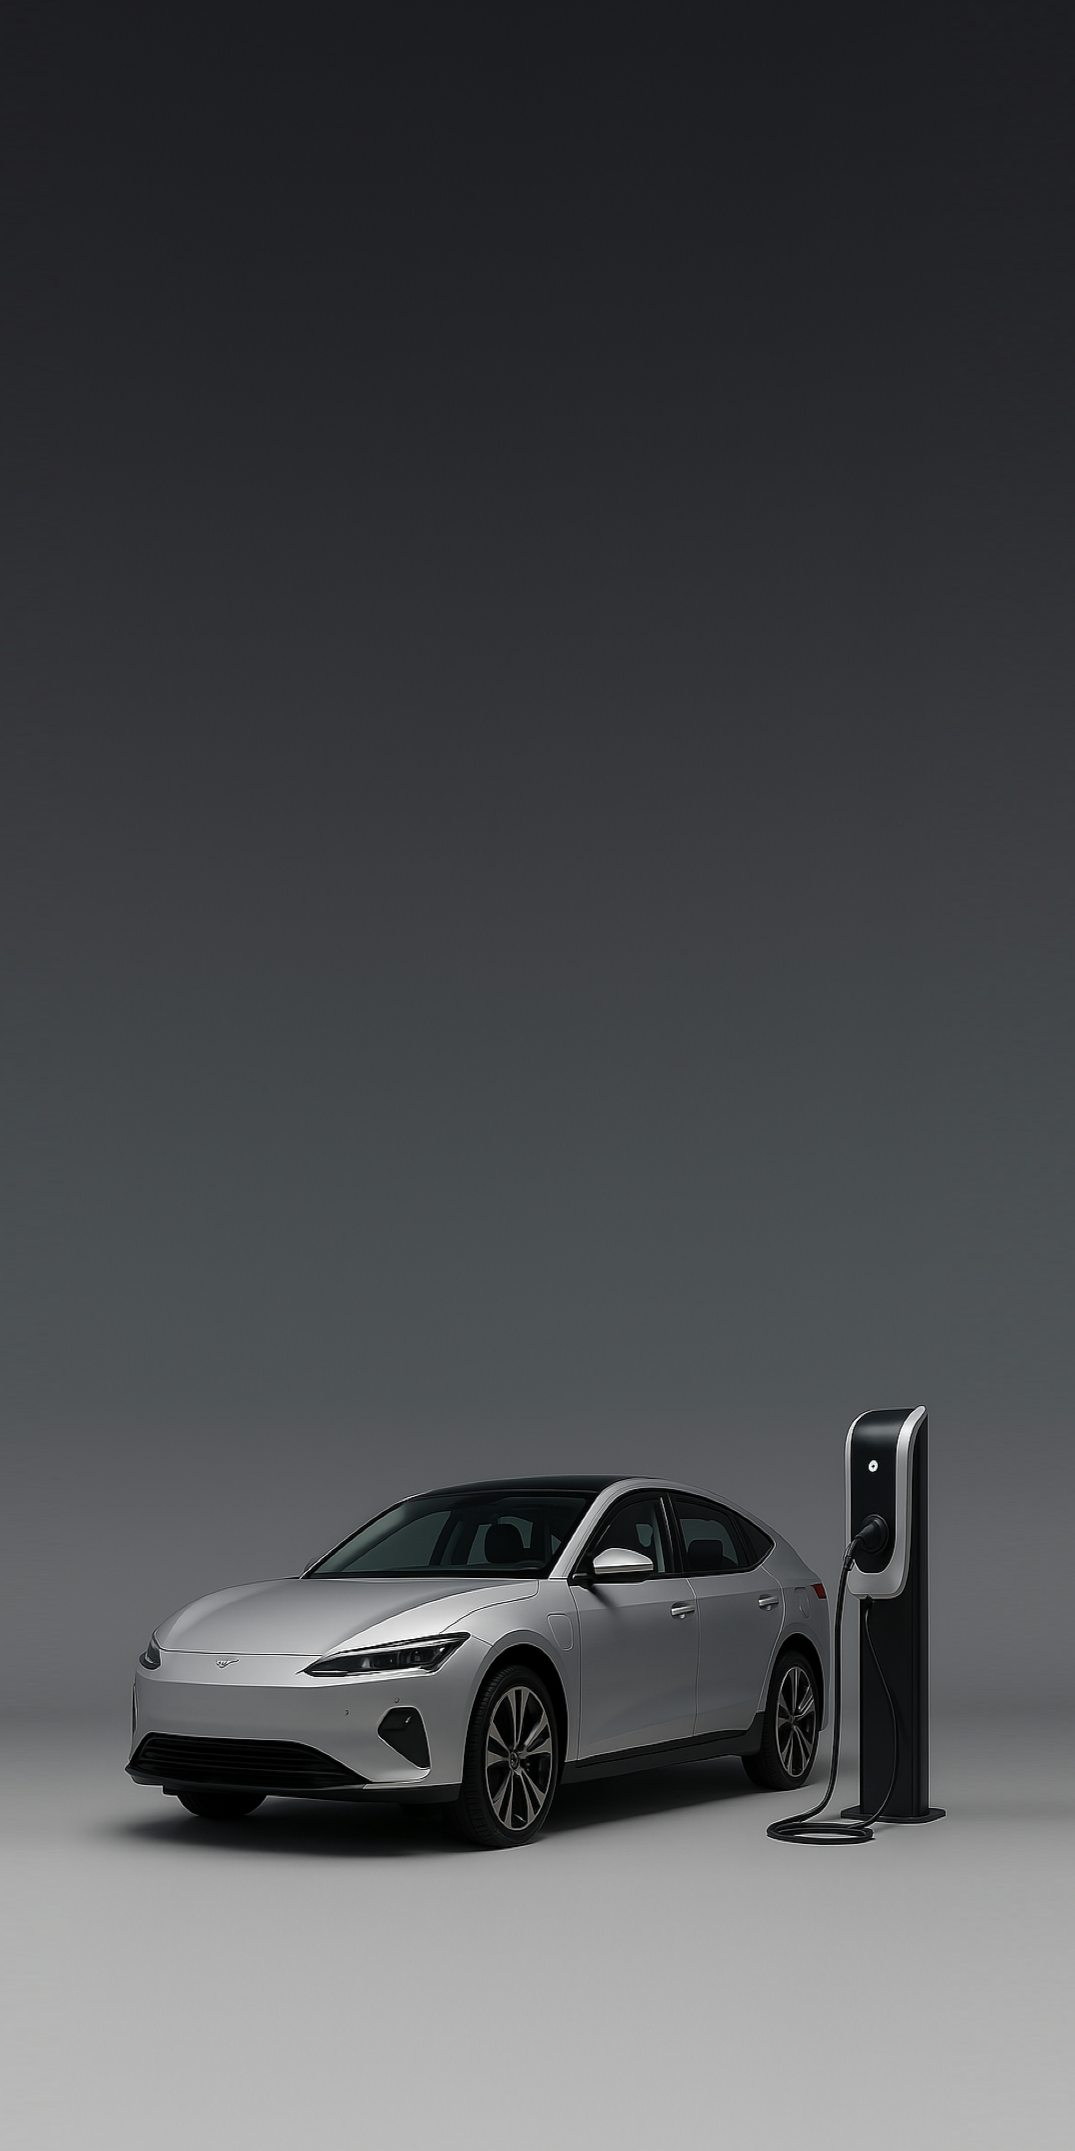
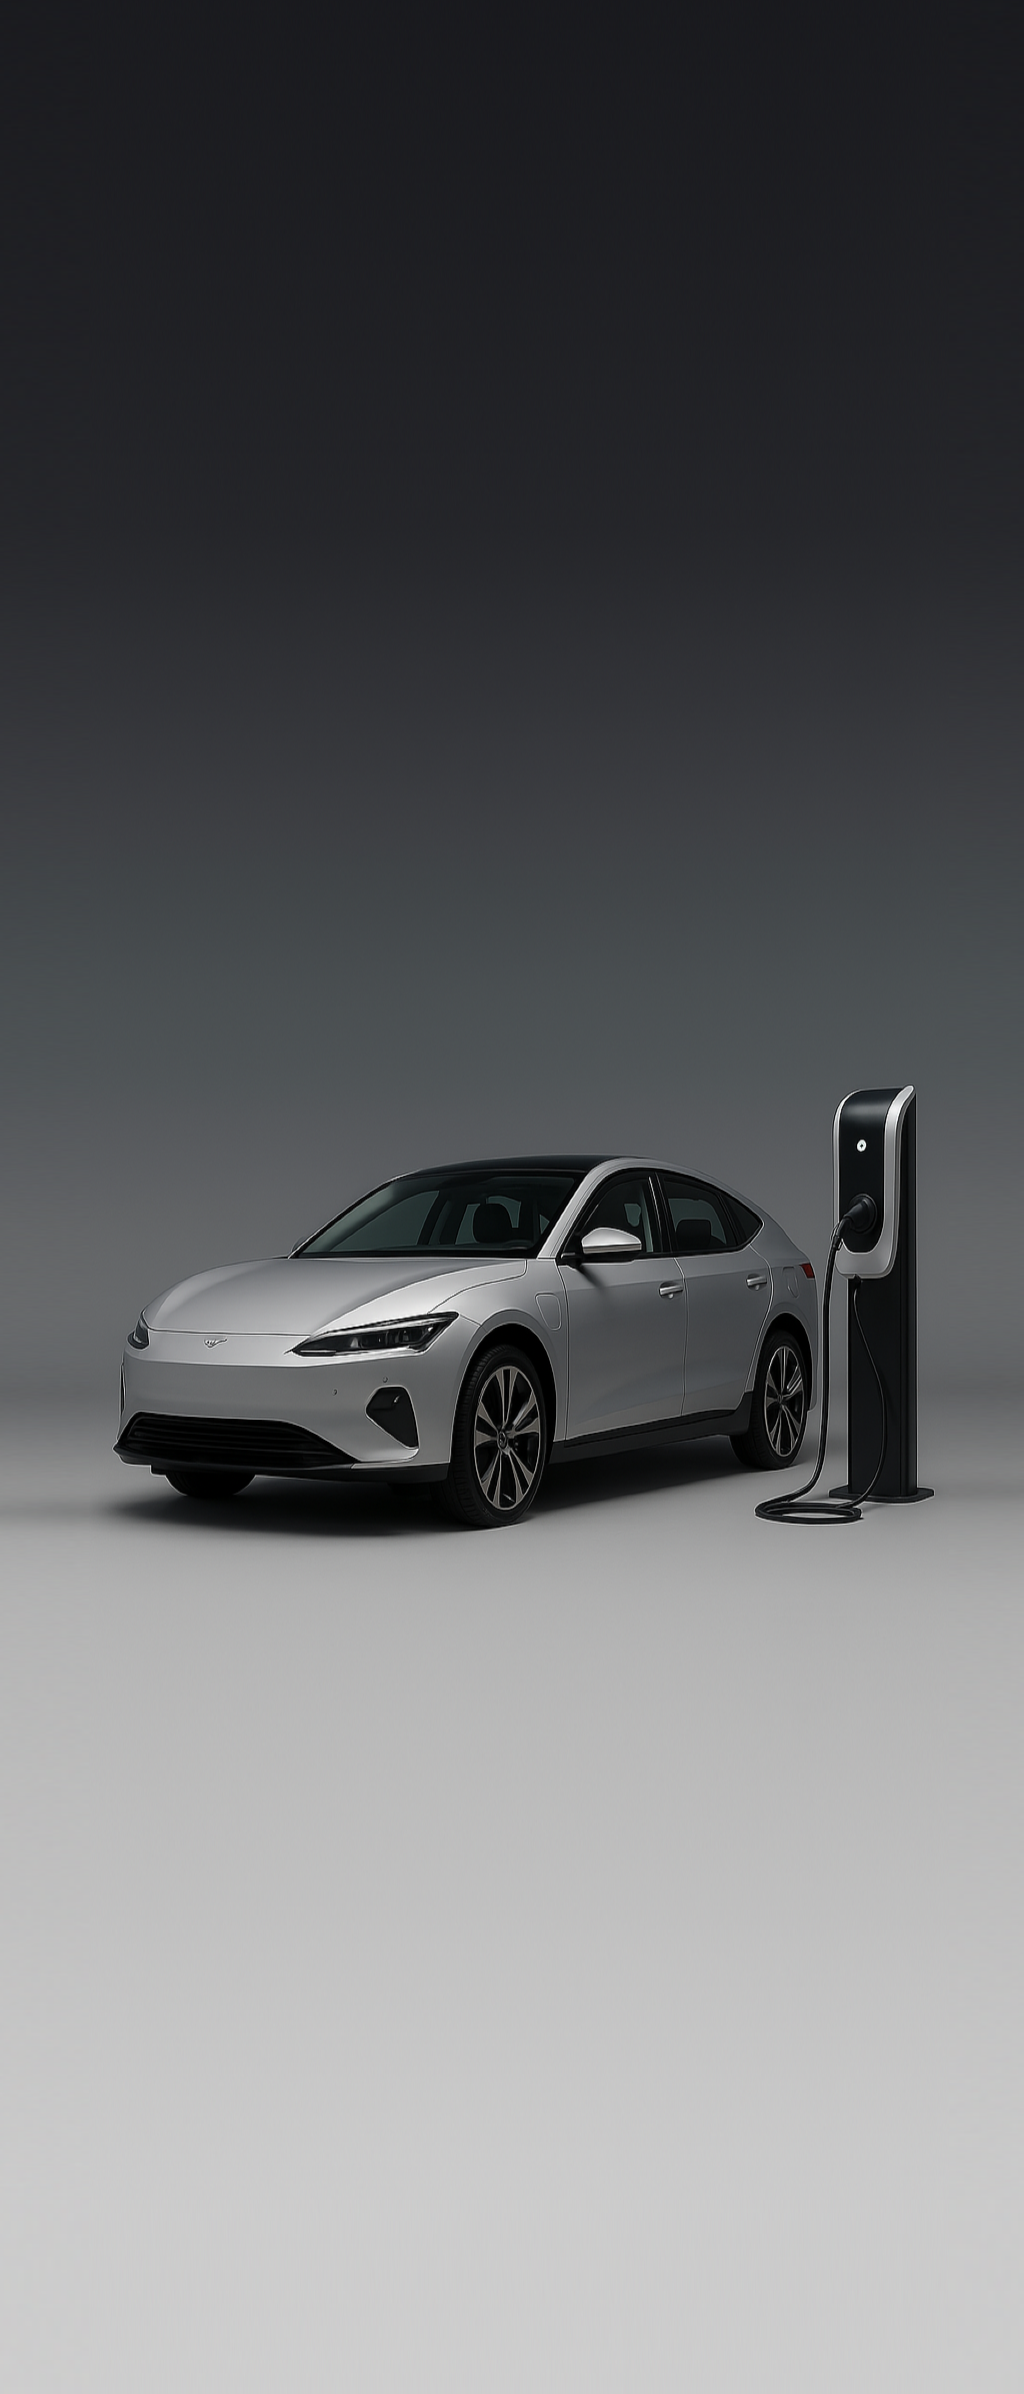
cambios en home hero nav y componentes

diff --git a/src/components/home/HeroSection.tsx b/src/components/home/HeroSection.tsx
@@ -1,73 +1,51 @@
+import { ebGaramond, montserrat } from "@/utils/fonts";
 import Link from "next/link";
 
 export default function HeroSection() {
   return (
     <section
-      className="relative min-h-[80vh] sm:min-h-[60vh] flex items-center overflow-hidden bg-gradient-to-b from-gray-900 via-gray-800 to-gray-700"
+      className="relative min-h-[73vh] md:min-h-[80vh] flex overflow-hidden bg-gradient-to-b from-gray-900 via-gray-800 to-gray-700 x"
       role="banner"
     >
       <div className="absolute inset-0">
         <picture>
-          {/* Versión WebP para móviles (mejor compresión) */}
           <source
-            media="(max-width: 639px)"
+            media="(max-width: 1279px)"
             srcSet="/imgHome-mobile.png"
-            type="image/webp"
+            type="image/png"
           />
           <source
-            media="(max-width: 639px)"
-            srcSet="/imgHome-mobile.avif"
-            type="image/avif"
+            media="(min-width: 1980px) and (max-width: 3440px)"
+            srcSet="/imgHome-ultrawide.png"
+            type="image/png"
           />
-
-          {/* Versiones para tablet */}
-          <source
-            media="(min-width: 640px) and (max-width: 767px)"
-            srcSet="/imgHome-tablet.webp"
-            type="image/webp"
-          />
-          <source
-            media="(min-width: 640px) and (max-width: 767px)"
-            srcSet="/imgHome-tablet.avif"
-            type="image/avif"
-          />
-
-          {/* Versiones para escritorio */}
-          <source
-            media="(min-width: 768px)"
-            srcSet="/imgHome.webp"
-            type="image/webp"
-          />
-          <source
-            media="(min-width: 768px)"
-            srcSet="/imgHome.avif"
-            type="image/avif"
-          />
-
-          {/* Fallback */}
           <img
-            src="/imgHome.jpg"
+            src="/imgHome.png"
             alt="Luxury Car"
-            className="object-fill w-full h-full"
+            className="object-cover w-full h-full"
             loading="eager"
           />
         </picture>
       </div>
 
       <div className="relative z-10 container mx-auto py-16 md:py-24 flex-1">
-        <div className="max-w-2xl flex flex-col space-y-6">
-          <h1 className="text-4xl md:text-5xl lg:text-6xl font-bold text-white leading-tight">
-            Concesionario de vehículos de ocasión
+        <div className="max-w-2xl flex flex-col items-center gap-6 mt-2 md:mt-20 short:mt-4 ">
+          <div className="flex flex-col items-center gap-1">
+          <h1
+            className={`${montserrat.className} text-4xl md:text-5xl lg:text-6xl text-center font-extrabold text-white`}
+          >
+            LEBAUTO
           </h1>
-          <p className="text-lg md:text-xl text-gray-300">
-            Los mejores coches de segunda mano con garantía y al mejor precio
+          <p className={`${ebGaramond.className} italic max-md:font-semibold text-2xl md:text-3xl lg:text-5xl text-gray-200`}>
+          La referencia en coches eléctricos
           </p>
+          </div>
           <Link
             href="/coches-segunda-mano"
-            className="bg-white text-black font-semibold px-8 py-2 text-base md:text-lg rounded-[0.5rem] hover:opacity-80 w-max"
+            className="bg-white text-black font-semibold px-4 py-2 text-base md:text-lg rounded-[0.5rem] hover:opacity-80 w-max"
             aria-label="Ver catálogo de coches de segunda mano"
           >
-            Ver catálogo
+            Explorar vehículos
           </Link>
         </div>
       </div>

diff --git a/src/components/Nvbar.tsx b/src/components/Nvbar.tsx
@@ -4,6 +4,7 @@ import { useState, useEffect } from "react";
 import Link from "next/link";
 import { usePathname } from "next/navigation";
 import { Menu, X } from "lucide-react";
+import Image from "next/image";
 
 export default function Navbar() {
   const [scrolled, setScrolled] = useState(false);
@@ -24,7 +25,7 @@ export default function Navbar() {
   }, []);
 
   const isHome = pathname === "/";
-  const navbarClasses = `fixed top-0 w-screen z-50 py-6 transition-all duration-300 ${
+  const navbarClasses = `fixed top-0 w-screen z-50 transition-all duration-300 ${
     isHome
       ? scrolled || menuOpen
         ? "bg-white shadow-md transition-shadow text-black"
@@ -40,9 +41,23 @@ export default function Navbar() {
 
   return (
     <nav className={navbarClasses}>
-      <div className="container mx-auto flex justify-between items-center">
-        <Link href="/" className="text-2xl font-bold">
-          Lebauto
+      <div
+        className={`container mx-auto flex items-center h-[50px] md:h-20 ${
+          menuOpen ? "justify-between" : scrolled ? "justify-between" : "justify-end"
+        }`}
+      >
+        <Link
+          href="/"
+          className={`text-2xl font-bold ${menuOpen ? "block" : scrolled ? "block" : "hidden"}`}
+        >
+          <Image
+            src="/logo.jpg"
+            alt="Logo"
+            width={80}
+            height={80}
+            loading="eager"
+            className="w-[50px] md:w-[80px] h-auto"
+          />
         </Link>
         <div className="hidden md:flex gap-8">
           <Link href="/" className="hover:opacity-80">

diff --git a/app/(site)/page.tsx b/app/(site)/page.tsx
@@ -1,6 +1,5 @@
 import BrandGrid from "@/components/home/BrandGrid";
 import ContactButtons from "@/components/ContactButtons";
-import CategoriesSection from "@/components/home/CategoriesSection";
 import HeroSection from "@/components/home/HeroSection";
 import SearchSection from "@/components/home/SearchSection";
 import SellYourCarSection from "@/components/home/SellYourCarSection";
@@ -8,9 +7,6 @@ import Link from "next/link";
 import type { Metadata } from "next";
 import ElectricVehiclesSection from "@/components/home/ElectricVehiclesSection";
 import ElectricChargersSection from "@/components/home/ElectricShargersSection";
-import WhyElectricSection from "@/components/home/WhyElectricSection";
-import SavingsCalculator from "@/components/home/SavingsCalculator";
-import SubsidiesSection from "@/components/home/SubsidiesSection";
 
 export const metadata: Metadata = {
   title:
@@ -47,7 +43,6 @@ export default function HomePage() {
     <>
       <HeroSection />
       <SearchSection />
-      <CategoriesSection />
       <ElectricVehiclesSection />
       <SellYourCarSection />
       <section className="py-20 bg-muted/40">
@@ -65,9 +60,9 @@ export default function HomePage() {
         </div>
       </section>
       <ElectricChargersSection />
-      <WhyElectricSection />
+{/*       <WhyElectricSection />
       <SavingsCalculator />
-      <SubsidiesSection />
+      <SubsidiesSection /> */}
       <ContactButtons />
 
       {/* Datos estructurados para SEO */}

diff --git a/src/components/home/ElectricVehiclesSection.tsx b/src/components/home/ElectricVehiclesSection.tsx
@@ -30,11 +30,11 @@ export default function ElectricVehiclesSection() {
   }, []);
 
   return (
-    <section className="py-20 bg-gray-50">
+    <section className="py-8 bg-white">
       <div className="container mx-auto">
-        <div className="flex flex-col md:flex-row justify-between items-start md:items-center mb-8 gap-4">
+        <div className="flex flex-col md:flex-row justify-between items-center mb-8 gap-4">
           <div>
-            <h2 className="text-3xl font-bold">Vehículos eléctricos</h2>
+            <h2 className="text-3xl font-bold text-center md:text-left">Vehículos eléctricos</h2>
             <p className="text-muted-foreground mt-2">
               Descubre nuestra selección de vehículos 100% eléctricos
             </p>

diff --git a/app/(site)/gestion-de-venta/page.tsx b/app/(site)/gestion-de-venta/page.tsx
@@ -86,7 +86,7 @@ export default function SellCarPage() {
 
   return (
     <main className="min-h-screen bg-background scroll-smooth">
-      <section className="relative mt-16 py-24 bg-gradient-to-br from-primary via-primary/90 to-primary/70 text-white overflow-hidden">
+      <section className="relative mt-[50px] md:mt-20 py-24 bg-gradient-to-br from-primary via-primary/90 to-primary/70 text-white overflow-hidden">
         <div className="absolute inset-0 bg-grid-white/[0.05] bg-[length:20px_20px]"></div>
         <div className="container mx-auto relative z-10">
           <Link href="/" className="inline-flex items-center text-white/80 hover:text-white mb-8">

diff --git a/src/utils/fonts.ts b/src/utils/fonts.ts
@@ -1,7 +1,14 @@
-import { Inter, Lusitana } from 'next/font/google';
+import { Inter, EB_Garamond, Montserrat } from 'next/font/google';
 
-export const lusitana = Lusitana({
-    weight: ['400', '700'],
+export const inter = Inter({ subsets: ['latin'] });
+
+export const ebGaramond = EB_Garamond({
+    weight: ['400', '500', '600', '700'],
+    style: ['normal', 'italic'],
     subsets: ['latin'],
   });
-export const inter = Inter({ subsets: ['latin'] });
+
+export const montserrat = Montserrat({
+    weight: ['400','700','800', '900'],
+    subsets: ['latin'],
+  });

diff --git a/src/components/cars/CarCardList.tsx b/src/components/cars/CarCardList.tsx
@@ -20,7 +20,7 @@ export default function CarCardList({ car }: CarCardListProps) {
       <div className="flex flex-col md:flex-row">
         <div className="relative w-full md:w-[300px]">
           <div className="absolute top-2 right-2 z-10">
-            <Image src="/logo.webp" width={32} height={32} alt="Logo empresa" className="rounded-full" />
+            <Image src="/logo.jpg" width={32} height={32} alt="Logo empresa" className="rounded-full" />
           </div>
           <Image
             src={mainImage}

diff --git a/src/components/cars/CatalogClient.tsx b/src/components/cars/CatalogClient.tsx
@@ -155,7 +155,7 @@ export default function CatalogClient({
   );
 
   return (
-    <div className="container mx-auto flex flex-col lg:flex-row min-h-screen py-12 gap-8 mt-16">
+    <div className="container mx-auto flex flex-col lg:flex-row min-h-screen pt-4 pb-12 gap-8 mt-[50px] md:mt-20">
       <aside className="hidden lg:block lg:w-80 lg:min-w-80">
         <div className="sticky top-24 bg-white rounded-lg shadow-md max-h-[calc(100vh-6rem)] overflow-y-auto custom-scrollbar">
           <CarFilters />

diff --git a/app/(site)/contacto/page.tsx b/app/(site)/contacto/page.tsx
@@ -18,7 +18,7 @@ export const metadata = {
 export default function ContactPage() {
   return (
     <>
-      <section className="bg-gray-900 text-primary-foreground py-16 mt-16">
+      <section className="bg-gray-900 text-primary-foreground py-16 mt-[50px] md:mt-20">
         <div className="container mx-auto px-4">
           <h1 className="text-4xl font-bold text-center mb-4">Contacto</h1>
           <p className="text-xl text-center mb-8 max-w-2xl mx-auto">

diff --git a/src/components/home/SearchSection.tsx b/src/components/home/SearchSection.tsx
@@ -57,7 +57,7 @@ export default function SearchSection() {
   };
 
   return (
-    <section className="relative z-10 -mt-16 pb-8" role="search">
+    <section className="relative z-10 -mt-24 sm:-mt-16 pb-8" role="search">
       <div className="container mx-auto">
         <div className="bg-white/95 backdrop-blur-md rounded-2xl p-6 md:p-8 shadow-xl">
           <div className="grid grid-cols-1 md:grid-cols-3 gap-4">

diff --git a/src/components/ContactButtons.tsx b/src/components/ContactButtons.tsx
@@ -12,7 +12,7 @@ import { JSX } from "react";
 
 export default function ContactButtons() {
   return (
-    <div className="fixed right-6 bottom-6 flex flex-col gap-4 z-50">
+    <div className="hidden fixed right-6 bottom-6 md:flex flex-col gap-4 z-50">
       <TooltipProvider delayDuration={0}>
         <ContactButton
           icon={<Phone className="h-5 w-5" />}

diff --git a/src/components/cars/CarCardGrid.tsx b/src/components/cars/CarCardGrid.tsx
@@ -20,7 +20,7 @@ export default function CarCardGrid({ car }: CarCardGridProps) {
       <div className="relative">
         <div className="absolute top-2 right-2 z-10">
           <Image
-            src="/logo.webp"
+            src="/logo.jpg"
             width={32}
             height={32}
             alt="Logo empresa"
